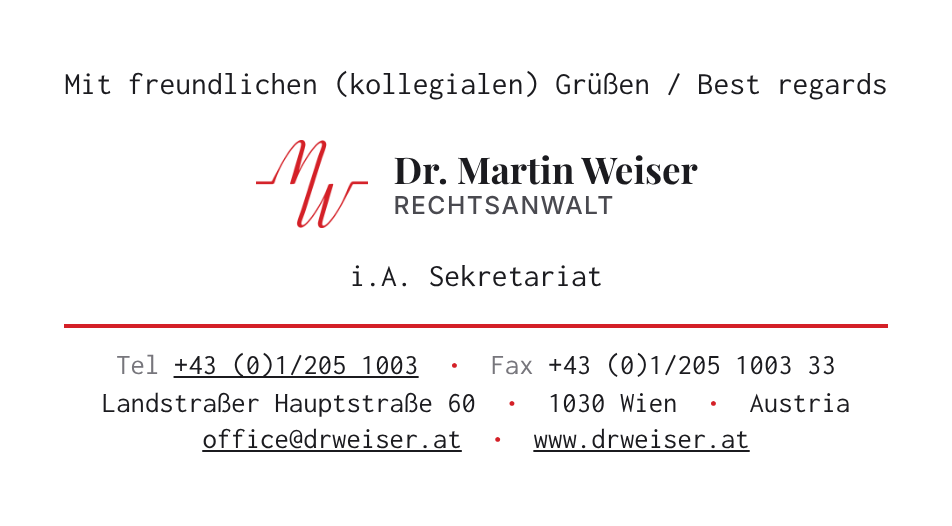
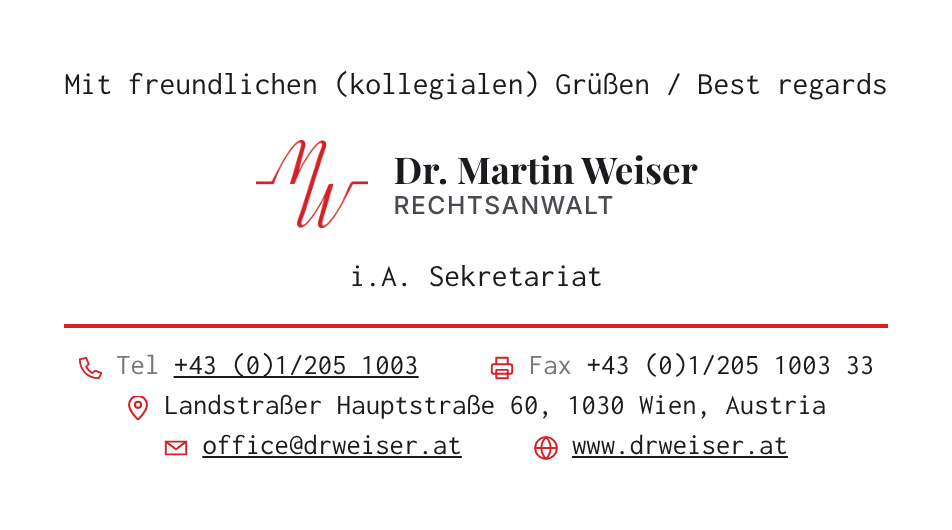
E-Mail-Signatur: Kontakt-Symbole wie auf der Website, Einrichtung über Word
- Rote Linien-Symbole der Website für Telefon, Adresse und E-Mail;
  Fax (Drucker) und Website (Globus) im selben Stil ergänzt
- Kanzlei.htm mit Bildern im Ordner bilder/, Textfassung Kanzlei.txt,
  signatur-komplett.html mit eingebetteten Bildern
- Alles als Signatur-Kanzlei-Weiser.zip zum Herunterladen
- Anleitung: in Word öffnen und von dort kopieren, damit Logo und
  Symbole mitkommen; Plan B über den Signaturen-Ordner

Claude-Session: https://claude.ai/code/session_01FmFstLP2dWuSsSstYfuTzq

diff --git a/email-signatur/signatur-komplett.html b/email-signatur/signatur-komplett.html
@@ -6,11 +6,6 @@
 <title>E-Mail-Signatur Dr. Martin Weiser</title>
 </head>
 <body style="margin:0; padding:24px; background-color:#ffffff;">
-<!--
-  E-Mail-Signatur Kanzlei Dr. Martin Weiser (zentriert)
-  Fertige Signatur mit eingebettetem Logo (zum Ansehen, für Mac und andere Programme).
-  Anleitung: README.md
--->
 <table role="presentation" align="center" cellpadding="0" cellspacing="0" border="0" style="border-collapse:collapse; margin:0 auto;">
   <tr>
     <td align="center" style="padding:0 0 12px 0; text-align:center; font-family:Consolas, Menlo, 'Courier New', monospace; font-size:11pt; line-height:15pt; mso-line-height-rule:exactly; color:#1B1B1F;">Mit freundlichen (kollegialen) Gr&uuml;&szlig;en&nbsp;/ Best&nbsp;regards</td>
@@ -22,9 +17,9 @@
     <td align="center" style="padding:0 0 14px 0; text-align:center; font-family:Consolas, Menlo, 'Courier New', monospace; font-size:11pt; line-height:15pt; mso-line-height-rule:exactly; color:#1B1B1F;">i.A. Sekretariat</td>
   </tr>
   <tr>
-    <td align="center" style="border-top:2px solid #D42027; padding-top:10px; text-align:center; font-family:Consolas, Menlo, 'Courier New', monospace; font-size:10pt; line-height:14pt; mso-line-height-rule:exactly; color:#1B1B1F;"><span style="color:#77767C;">Tel</span>&nbsp;<a href="tel:+4312051003" style="color:#1B1B1F; text-decoration:underline;"><span style="color:#1B1B1F; text-decoration:underline;">+43&nbsp;(0)1/205&nbsp;1003</span></a>&nbsp;&nbsp;<span style="color:#D42027;">&bull;</span>&nbsp; <span style="color:#77767C;">Fax</span>&nbsp;+43&nbsp;(0)1/205&nbsp;1003&nbsp;33<br>
-Landstra&szlig;er&nbsp;Hauptstra&szlig;e&nbsp;60&nbsp;&nbsp;<span style="color:#D42027;">&bull;</span>&nbsp; 1030&nbsp;Wien&nbsp;&nbsp;<span style="color:#D42027;">&bull;</span>&nbsp;&nbsp;Austria<br>
-<a href="mailto:office@drweiser.at" style="color:#1B1B1F; text-decoration:underline;"><span style="color:#1B1B1F; text-decoration:underline;">office@drweiser.at</span></a>&nbsp;&nbsp;<span style="color:#D42027;">&bull;</span>&nbsp; <a href="https://drweiser.at" style="color:#1B1B1F; text-decoration:underline;"><span style="color:#1B1B1F; text-decoration:underline;">www.drweiser.at</span></a></td>
[3 lines of base64/hex data omitted]
   </tr>
 </table>
 </body>

diff --git a/email-signatur/Kanzlei.htm b/email-signatur/Kanzlei.htm
@@ -1,0 +1,26 @@
+<!DOCTYPE html>
+<html lang="de">
+<head>
+<meta http-equiv="Content-Type" content="text/html; charset=utf-8">
+<meta name="viewport" content="width=device-width, initial-scale=1">
+<title>E-Mail-Signatur Dr. Martin Weiser</title>
+</head>
+<body style="margin:0; padding:24px; background-color:#ffffff;">
+<table role="presentation" align="center" cellpadding="0" cellspacing="0" border="0" style="border-collapse:collapse; margin:0 auto;">
+  <tr>
+    <td align="center" style="padding:0 0 12px 0; text-align:center; font-family:Consolas, Menlo, 'Courier New', monospace; font-size:11pt; line-height:15pt; mso-line-height-rule:exactly; color:#1B1B1F;">Mit freundlichen (kollegialen) Gr&uuml;&szlig;en&nbsp;/ Best&nbsp;regards</td>
+  </tr>
+  <tr>
+    <td align="center" style="padding:0 0 8px 0; text-align:center;"><a href="https://drweiser.at" style="text-decoration:none;"><img src="bilder/logo.png" width="241" height="56" alt="Dr. Martin Weiser &middot; Rechtsanwalt" style="display:block; margin:0 auto; width:241px; height:56px; border:0;"></a></td>
+  </tr>
+  <tr>
+    <td align="center" style="padding:0 0 14px 0; text-align:center; font-family:Consolas, Menlo, 'Courier New', monospace; font-size:11pt; line-height:15pt; mso-line-height-rule:exactly; color:#1B1B1F;">i.A. Sekretariat</td>
+  </tr>
+  <tr>
+    <td align="center" style="border-top:2px solid #D42027; padding-top:9px; text-align:center; font-family:Consolas, Menlo, 'Courier New', monospace; font-size:10pt; line-height:15pt; mso-line-height-rule:exactly; color:#1B1B1F;"><span style="white-space:nowrap;"><img src="bilder/telefon.png" width="12" height="12" alt="Tel" style="width:12px; height:12px; border:0; vertical-align:middle;">&nbsp;<span style="color:#77767C;">Tel</span>&nbsp;<a href="tel:+4312051003" style="color:#1B1B1F; text-decoration:underline;"><span style="color:#1B1B1F; text-decoration:underline;">+43&nbsp;(0)1/205&nbsp;1003</span></a></span>&nbsp;&nbsp;&nbsp;&nbsp; <span style="white-space:nowrap;"><img src="bilder/fax.png" width="12" height="12" alt="Fax" style="width:12px; height:12px; border:0; vertical-align:middle;">&nbsp;<span style="color:#77767C;">Fax</span>&nbsp;+43&nbsp;(0)1/205&nbsp;1003&nbsp;33</span><br>
+<span style="white-space:nowrap;"><img src="bilder/adresse.png" width="12" height="12" alt="Adresse" style="width:12px; height:12px; border:0; vertical-align:middle;">&nbsp;Landstra&szlig;er&nbsp;Hauptstra&szlig;e&nbsp;60,</span> <span style="white-space:nowrap;">1030&nbsp;Wien,&nbsp;Austria</span><br>
+<span style="white-space:nowrap;"><img src="bilder/email.png" width="12" height="12" alt="E-Mail" style="width:12px; height:12px; border:0; vertical-align:middle;">&nbsp;<a href="mailto:office@drweiser.at" style="color:#1B1B1F; text-decoration:underline;"><span style="color:#1B1B1F; text-decoration:underline;">office@drweiser.at</span></a></span>&nbsp;&nbsp;&nbsp;&nbsp; <span style="white-space:nowrap;"><img src="bilder/web.png" width="12" height="12" alt="Web" style="width:12px; height:12px; border:0; vertical-align:middle;">&nbsp;<a href="https://drweiser.at" style="color:#1B1B1F; text-decoration:underline;"><span style="color:#1B1B1F; text-decoration:underline;">www.drweiser.at</span></a></span></td>
+  </tr>
+</table>
+</body>
+</html>

diff --git a/email-signatur/README.md b/email-signatur/README.md
@@ -1,6 +1,7 @@
 # E-Mail-Signatur – Kanzlei Dr. Martin Weiser
 
-Zentriert, mit langem rotem Strich. Die Schrift bleibt **Consolas** wie bisher.
+Zentriert, mit langem rotem Strich und den Kontakt-Symbolen der Website.
+Die Schrift bleibt **Consolas** wie bisher.
 Logo und Schriftzug sehen aus wie auf www.drweiser.at, nur ohne den Hintergrund.
 
 ![Vorschau der Signatur](vorschau.png)
@@ -9,50 +10,48 @@ Logo und Schriftzug sehen aus wie auf www.drweiser.at, nur ohne den Hintergrund.
 
 | Datei | Wofür |
 | --- | --- |
-| `signatur-fuer-outlook.html` | Vorlage zum Kopieren in Outlook. Wo das Logo hinkommt, steht das rote Wort **LOGO**. |
-| `logo-klassisches-outlook.png` | Logo zum Einfügen im klassischen Outlook |
-| `logo-neues-outlook.png` | Logo zum Einfügen im neuen Outlook |
-| `signatur-komplett.html` | fertige Signatur mit Logo, zum Ansehen und für den Mac |
+| `Signatur-Kanzlei-Weiser.zip` | **Alles zum Herunterladen in einer Datei**, mit dem Inhalt unten |
+| `Kanzlei.htm` | die Signatur für Outlook, braucht den Ordner `bilder` daneben |
+| `bilder/` | Logo und Symbole (Telefon, Fax, Adresse, E-Mail, Web) |
+| `Kanzlei.txt` | Textfassung für E-Mails im Nur-Text-Format (nur für Plan B nötig) |
+| `signatur-komplett.html` | dieselbe Signatur mit eingebauten Bildern, zum Ansehen und für den Mac |
 | `vorschau.png` | Vorschau |
 
-## Warum das Logo extra eingefügt wird
+## Warum der Weg über Word
 
-Beim Kopieren aus dem Browser nimmt Outlook Bilder oft nicht mit.
-Der Name „Dr. Martin Weiser / Rechtsanwalt“ gehört zum Logo-Bild, deshalb fehlt er dann ebenfalls.
-Darum kopierst du zuerst nur die Vorlage und setzt das Logo danach direkt in Outlook ein.
+Kopiert man aus dem Browser, nimmt Outlook die Bilder nicht mit, also weder das Logo noch die Symbole.
+Öffnet man die Signatur dagegen in Word und kopiert sie von dort, kommen alle Bilder mit.
 
-## Welches Outlook habe ich?
+## Einrichten im klassischen Outlook (oben links gibt es „Datei“)
 
-- **Klassisches Outlook:** Oben links gibt es den Menüpunkt **Datei**.
-- **Neues Outlook:** Es gibt kein „Datei“-Menü. Oben rechts ist der Schalter **Neues Outlook** eingeschaltet.
-
-## Klassisches Outlook (Windows)
-
-1. `signatur-fuer-outlook.html` doppelklicken. Die Vorlage öffnet sich im Browser.
-2. Ins Browserfenster klicken, dann **Strg + A** und **Strg + C** drücken.
-3. In Outlook auf **Datei → Optionen → E-Mail → Signaturen…** gehen.
-   Gibt es vom letzten Versuch schon eine Signatur „Kanzlei“, diese auswählen und **Löschen**.
+1. `Signatur-Kanzlei-Weiser.zip` herunterladen.
+   Dann mit Rechtsklick → **Alle extrahieren…** → **Extrahieren** entpacken.
+2. Im entpackten Ordner mit Rechtsklick auf `Kanzlei.htm` → **Öffnen mit** → **Word** gehen.
+   Steht Word nicht in der Liste: **Andere App auswählen** → **Word**.
+3. Erscheint oben ein gelber Balken „Geschützte Ansicht“, auf **Bearbeitung aktivieren** klicken.
+   Jetzt sollten Logo und Symbole zu sehen sein.
+4. **Strg + A** und dann **Strg + C** drücken. Danach Word schließen, ohne zu speichern.
+5. In Outlook auf **Datei → Optionen → E-Mail → Signaturen…** gehen.
+   Die alte Signatur „Kanzlei“ auswählen und **Löschen**.
    Dann auf **Neu** klicken, „Kanzlei“ eingeben und mit **OK** bestätigen.
-4. Ins Feld „Signatur bearbeiten“ klicken und **Strg + V** drücken.
-5. Das rote Wort **LOGO** doppelklicken, damit es markiert ist.
-6. In der Symbolleiste über dem Feld auf das **Bild**-Symbol klicken und `logo-klassisches-outlook.png` auswählen.
-   Das Logo ersetzt das Wort LOGO.
-7. Auf **Speichern** klicken.
-8. Rechts bei **Neue Nachrichten** und **Antworten/Weiterleitungen** jeweils „Kanzlei“ auswählen und mit **OK** bestätigen.
-9. Eine Testmail an die eigene Adresse und ans Handy schicken.
+6. Ins Feld „Signatur bearbeiten“ klicken, **Strg + V** drücken und auf **Speichern** klicken.
+7. Rechts bei **Neue Nachrichten** und **Antworten/Weiterleitungen** jeweils „Kanzlei“ auswählen und mit **OK** bestätigen.
+8. Eine Testmail an die eigene Adresse und ans Handy schicken.
 
-Erscheint das Logo viel zu groß, nimm in Schritt 6 stattdessen `logo-neues-outlook.png`.
+## Plan B: Dateien direkt in den Signaturen-Ordner legen
 
-## Neues Outlook oder Outlook im Web
+Nur nötig, falls die Bilder auch über Word nicht mitkommen.
 
-1. `signatur-fuer-outlook.html` im Browser öffnen, dann **Strg + A** und **Strg + C** drücken.
-2. In Outlook oben rechts auf das Zahnrad (**Einstellungen**) klicken und **Konten → Signaturen** öffnen.
-3. Auf **Neue Signatur** klicken, einen Namen eingeben, ins Textfeld klicken und **Strg + V** drücken.
-4. Das rote Wort **LOGO** doppelklicken.
-5. Auf das Bild-Symbol (**Bilder inline einfügen**) klicken und `logo-neues-outlook.png` auswählen.
-   Steht das Wort LOGO danach noch da, einfach löschen.
-6. Darunter die Signatur als Standard für neue Nachrichten und für Antworten wählen und auf **Speichern** klicken.
-7. Eine Testmail an die eigene Adresse und ans Handy schicken.
+1. Outlook schließen.
+2. **Windows-Taste + R** drücken, `%APPDATA%\Microsoft\Signatures` eingeben und **OK** klicken.
+   Der Signaturen-Ordner von Outlook öffnet sich.
+3. Aus dem entpackten Ordner `Kanzlei.htm`, `Kanzlei.txt` und den Ordner `bilder` hineinkopieren.
+   Fragt Windows nach dem Ersetzen, **Ersetzen** wählen.
+4. Outlook starten und unter **Datei → Optionen → E-Mail → Signaturen…** „Kanzlei“ als Standard auswählen.
+
+## Neues Outlook (kein „Datei“-Menü)
+
+Den Weg über Word bietet das neue Outlook nicht. Bitte kurz Bescheid geben, dann gibt es eine passende Anleitung.
 
 ## Mac (Apple Mail oder Outlook für Mac)
 
@@ -62,14 +61,16 @@ Erscheint das Logo viel zu groß, nimm in Schritt 6 stattdessen `logo-neues-outl
    - Apple Mail: **Mail → Einstellungen → Signaturen**
    - Outlook für Mac: **Outlook → Einstellungen → Signaturen**
 4. In Apple Mail unter dem Signaturfeld das Häkchen bei der Standardschrift entfernen.
-   Sonst ersetzt Mail die Schrift Consolas.
 
 ## Gut zu wissen
 
+- Die Symbole sind die der Website (Telefon, Adresse, E-Mail).
+  Für Fax und Website gibt es dort keine eigenen Symbole, deshalb sind Drucker und Globus im selben Stil ergänzt.
+  Die Website nutzt für Fax den Briefumschlag.
 - Telefonnummer, E-Mail-Adresse und Website sind verlinkt.
 - Die Website-Links führen auf https://drweiser.at ohne „www“, angezeigt wird aber „www.drweiser.at“.
   Das Sicherheitszertifikat der Website gilt nämlich nur für drweiser.at.
-  Ein Link auf https://www.drweiser.at würde eine Sicherheitswarnung zeigen.
 - Im Dunkelmodus steht das Logo auf einer weißen Fläche und bleibt so gut lesbar.
+  Am Handy bleiben die Symbole bei ihrem Text.
 - Die Vorschau entstand mit einer Ersatzschrift, die Consolas sehr ähnlich ist.
   In Outlook erscheint die echte Consolas.
